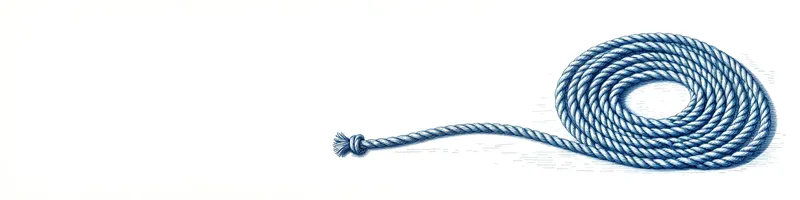
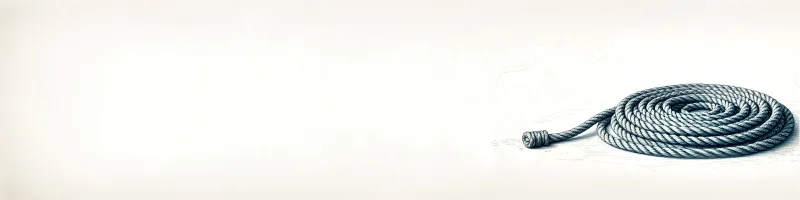
feat(portal): entregas rehechas del generador (26a, 26b, sello con GV, banda 29 oscura)
- Marcadores 26a (visto) y 26b (tres puntos) sobre el aro de 26c: se juntan
  sus dos capas en un trazado y pasan por limpiar-iconos.cjs.
- Sello 05b con el monograma GV, desde su SVG de una tinta, a 144 px.
- Banda 29 clara nueva (cabo más a la derecha) y su versión oscura, con el
  fondo subido al de la tarjeta (#111f29) para que no se vea el recuadro.
  El reparto de la banda ya no depende del tema; el CSS muestra la del tema.
  En el móvil llega al borde derecho (max-width: none) y se funde por abajo.
Queda la rosa, que el generador rehará geométrica. Check en verde.

Siguiente: llevar a main cuando la persona lo diga (reviewed.sh y subir)

Changed region(s): [[0.4062, 0.15, 1.0, 0.87], [0.0, 0.69, 0.0938, 1.0], [0.0, 0.0, 0.0312, 0.3]]

diff --git a/src/estilos/global.css b/src/estilos/global.css
@@ -2666,13 +2666,13 @@ button {
   filter: invert(1) hue-rotate(180deg);
 }
 
-/* Banda de la marca (recurso 29), solo en el tema claro: mide 4:1 y deja el cabo en la mitad derecha, así que el
-   texto va en la izquierda. En el oscuro no se muestra (invertida se veía mal) hasta que llegue su versión. */
+/* Banda de la marca (recurso 29), con su versión para cada tema: mide 4:1 y deja el cabo en la mitad derecha, así
+   que el texto va en la izquierda. */
 .participar-banda {
   display: none;
 }
 
-:root[data-tema='claro'] .participar-abierta {
+.participar-abierta {
   position: relative;
   grid-template-columns: auto minmax(0, 1fr);
   align-content: center;
@@ -2682,17 +2682,18 @@ button {
   overflow: hidden;
 }
 
-:root[data-tema='claro'] .participar-abierta > :not(.participar-banda) {
+.participar-abierta > :not(.participar-banda) {
   position: relative;
 }
 
-:root[data-tema='claro'] .participar-abierta .boton {
+.participar-abierta .boton {
   grid-column: 2;
   justify-self: start;
 }
 
 /* Si el texto pide más alto que el 4:1, la banda crece y recorta papel vacío por la izquierda, nunca el cabo. */
-:root[data-tema='claro'] .participar-banda {
+:root[data-tema='claro'] .participar-banda-claro,
+:root:not([data-tema='claro']) .participar-banda-oscuro {
   display: block;
   position: absolute;
   inset: 0;
@@ -2703,21 +2704,24 @@ button {
 }
 
 /* Por debajo de 900 px el texto ya no cabe en el 4:1 y el cover recortaría el cabo: la banda pasa encima del texto,
-   de borde a borde, y recorta solo papel de la izquierda. */
+   de borde a borde, recorta solo papel de la izquierda y se funde con la tarjeta por abajo. */
 @media (max-width: 900px) {
-  :root[data-tema='claro'] .participar-abierta {
+  .participar-abierta {
     grid-template-columns: 1fr;
     aspect-ratio: auto;
     padding: 0 24px 24px;
   }
-  :root[data-tema='claro'] .participar-abierta .boton {
+  .participar-abierta .boton {
     grid-column: auto;
   }
-  :root[data-tema='claro'] .participar-banda {
+  :root[data-tema='claro'] .participar-banda-claro,
+  :root:not([data-tema='claro']) .participar-banda-oscuro {
     position: static;
     width: calc(100% + 48px);
+    max-width: none;
     height: 120px;
     margin: 0 -24px;
+    mask-image: linear-gradient(to bottom, #000 75%, transparent);
   }
 }
 

diff --git a/src/pages/Proyecto.tsx b/src/pages/Proyecto.tsx
@@ -657,20 +657,25 @@ function FichaProyecto({ p }: { p: TipoProyecto }) {
         )}
 
         <aside className={`participar participar-${p.colaboracion}`}>
-          {/* Banda de la marca (recurso 29), solo con la colaboración abierta y en el tema claro: el cabo a la derecha,
-              el texto a la izquierda. */}
-          {p.colaboracion === 'abierta' && (
-            <img
-              className="participar-banda"
-              src={ruta('marca/banda-participar.webp')}
-              srcSet={`${ruta('marca/banda-participar-mini.webp')} 800w, ${ruta('marca/banda-participar.webp')} 1600w`}
-              sizes="(max-width: 1200px) 100vw, 1200px"
-              alt=""
-              width={1600}
-              height={400}
-              loading="lazy"
-            />
-          )}
+          {/* Banda de la marca (recurso 29), solo con la colaboración abierta; el CSS muestra la del tema. */}
+          {p.colaboracion === 'abierta' &&
+            (['claro', 'oscuro'] as const).map((tema) => {
+              const base =
+                tema === 'claro' ? 'marca/banda-participar' : 'marca/banda-participar-oscura';
+              return (
+                <img
+                  key={tema}
+                  className={`participar-banda participar-banda-${tema}`}
+                  src={ruta(`${base}.webp`)}
+                  srcSet={`${ruta(`${base}-mini.webp`)} 800w, ${ruta(`${base}.webp`)} 1600w`}
+                  sizes="(max-width: 1200px) 100vw, 1200px"
+                  alt=""
+                  width={1600}
+                  height={400}
+                  loading="lazy"
+                />
+              );
+            })}
           <span className="participar-icono" aria-hidden="true">
             {p.colaboracion === 'abierta' ? <IconoMarca nombre="ramas" /> : <Lock />}
           </span>

diff --git a/docs/marca.md b/docs/marca.md
@@ -179,10 +179,10 @@ La vista previa (`og`) de un proyecto es siempre `tools/og/fuentes/<slug>/og-fue
 | 27 | 2026-11-12 | `public/marca/estado-vacio.webp` (480×360, se muestra a 240) | Aviso vacío del muro y de novedades (`AvisoVacio.tsx`), en lugar de las isobatas tenues de `.vacio-carta` |
 | 28 | 2026-11-12 | `public/marca/aviso-error.webp` (480×360, se muestra a 240) | `AvisoError.tsx` (fallo de carga de la ficha o de una página), en lugar del monograma |
 | 25 | 2026-11-13 | `src/assets/iconos/resumen.svg`, `galeria.svg`, `a-fondo.svg`, `como-esta-hecho.svg` y `avance.svg` (pasados por `limpiar-iconos.cjs`) | Ficha de proyecto: título de cada grupo (en el color del acento) y su enlace del índice (`ICONO_GRUPO` de `Proyecto.tsx`) |
-| 26 | 2026-11-13 | `src/assets/iconos/hito-hecho.svg`, `hito-curso.svg` y `hito-pendiente.svg` (pasados por `limpiar-iconos.cjs`; los PNG de 64 px, con papel crema, no se usan) | Hitos de «Avance» (`ICONO_HITO`), en lugar de `Check`, `LoaderCircle` y `CircleDashed` de lucide dentro de un cuadro: el aro, del color del estado. **Provisionales 26a y 26b:** se pidieron al generador el visto con el grosor del aro y los tres puntos macizos (2026-11-13) |
-| 29 | 2026-11-13 | `public/marca/banda-participar.webp` (1600×400) y `-mini.webp` (800), con el papel crema blanqueado al convertir (`ffmpeg colorlevels`) para que case con `--superficie` | Fondo del aviso «¿Quieres participar?» de la ficha (`.participar-banda`), **solo en el tema claro**: en escritorio, a 4:1 con el texto en la mitad izquierda; en el móvil, encima del texto (120 px, recorta papel de la izquierda). En el oscuro se probó invertida y se veía mal (la persona, 2026-11-13: «en fondo blanco sí queda bien»): no se muestra hasta que llegue su versión oscura |
+| 26 | 2026-11-13 | `src/assets/iconos/hito-hecho.svg`, `hito-curso.svg` y `hito-pendiente.svg` (pasados por `limpiar-iconos.cjs`; los PNG de 64 px, con papel crema, no se usan) | Hitos de «Avance» (`ICONO_HITO`), en lugar de `Check`, `LoaderCircle` y `CircleDashed` de lucide dentro de un cuadro: el aro, del color del estado. 26a y 26b rehechas (2026-11-13): el aro de 26c con un visto del mismo grosor y con tres puntos macizos; el generador las entrega en dos capas (aro y `<svg>` anidado) que se juntan en un trazado antes de `limpiar-iconos.cjs` |
+| 29 | 2026-11-13 | `public/marca/banda-participar.webp` (1600×400) y `-mini.webp` (800), con el papel crema blanqueado al convertir (`ffmpeg colorlevels`) para que case con `--superficie` | Fondo del aviso «¿Quieres participar?» de la ficha (`.participar-banda`), **solo en el tema claro**: en escritorio, a 4:1 con el texto en la mitad izquierda; en el móvil, encima del texto (120 px, recorta papel de la izquierda). En el oscuro, su versión `banda-participar-oscura.webp` (y `-mini`), con el fondo noche subido a `--superficie` (#111f29) con `ffmpeg colorlevels=romin=0.0165:gomin=0.0427:bomin=0.0614` para que no se vea el recuadro (la persona, 2026-11-13). Solo con la colaboración abierta; hasta 900 px, encima del texto y fundida por abajo |
 | 30 | 2026-11-13 | `public/marca/cabecera-novedades.webp` (1600×400) y `-mini.webp` (800) | Arriba de `/novedades`, como la del equipo (clase común `.banda-cabecera`) |
-| 4, 5 | 2026-11-13 | `public/marca/rosa-vientos.webp` y `sello.webp` (512×512 con transparencia, del PNG del generador: el SVG, trazado en escalones, pesa más; no son los `.svg` que proponía la tabla de arriba) | Rosa: marca de agua al 12 % en la esquina inferior derecha del pie (`.pie-rosa`). Sello: a 72 px junto a «Galicia + Develop» de «Cómo trabajamos» del inicio (`.sobre-sello`). En el tema oscuro, en negativo por CSS. Sitios elegidos por la persona (2026-11-13: «me vale»). **Provisionales:** se pidieron la rosa en línea simple y el sello con el monograma |
+| 4, 5 | 2026-11-13 | `public/marca/rosa-vientos.webp` y `sello.webp` (rosa a 280 px y sello a 144 px, con transparencia; no son los `.svg` que proponía la tabla de arriba) | Rosa: marca de agua al 12 % en la esquina inferior derecha del pie (`.pie-rosa`). Sello (05b con el monograma GV, 2026-11-13, de su SVG de una tinta a 144 px con transparencia): a 72 px junto a «Galicia + Develop» de «Cómo trabajamos» del inicio (`.sobre-sello`). En el tema oscuro, en negativo por CSS. Sitios elegidos por la persona (2026-11-13: «me vale»). **Provisional la rosa:** el generador la rechazó y la dibujará geométrica |
 
 Por CSS, sin imagen (cancelados en el generador, 2026-11-11): 11, 16, 20 y 21 (el pie, cerúleo liso); la 22 no sale de gimg y el fondo sigue en color plano. La 14 se rehízo y llegó el 2026-11-12.
 

diff --git a/docs/handoff.md b/docs/handoff.md
@@ -8,8 +8,8 @@ Se actualiza en cada commit. Reglas en [`CLAUDE.md`](../CLAUDE.md).
 |---|---|
 | **Actualizado** | 2026-11-13 (series 25 y 26, banda 29 (solo claro) y cabecera 30 en `ccr-47f8fddd-o5ek6p`; **no a `main`**) |
 | **Rama de trabajo** | `claude/galivelop-dev-portal-1h89ci` (la que publica la tarea semanal); esta sesión, `ccr-47f8fddd-o5ek6p` (al día con `main`, 2026-11-13) |
-| **Tarea en curso** | **Lote del generador del 2026-11-13**. Hecho: iconos 25 en títulos e índice de la ficha, marcadores 26 en los hitos, banda 29 en «¿Quieres participar?» solo en el tema claro y cabecera 30 en `/novedades`. **29** no se muestra en el oscuro (invertida se veía mal; se pidió su versión). **Rosa y sello, sitios elegidos** (la persona: «me vale»): sello (05b) a 72 px junto a «Galicia + Develop» de «Cómo trabajamos» (`.sobre-sello`) y rosa (04b) como marca de agua al 12 % en la esquina del pie (`.pie-rosa`), invertidos en el oscuro. `/code-review` pasado y arreglado. Pedidos: 26a, 26b, rosa, sello, 29 oscura. **No llevar a `main`** hasta que la persona lo diga (2026-11-13). Presupuesto de compactaciones: 1 |
-| **Siguiente paso** | Cuando la persona diga de llevarlo a `main`: `reviewed.sh` y subir. Cuando lleguen 26a y 26b corregidas, repasarlas con `limpiar-iconos.cjs` (mismos nombres). Siguen en cola 10b y las versiones oscuras de 10, 18, 19, 27, 28 y 29 |
+| **Tarea en curso** | **Lote del generador del 2026-11-13**. Hecho: iconos 25 en títulos e índice de la ficha, marcadores 26 en los hitos, banda 29 en «¿Quieres participar?» (clara y oscura) y cabecera 30 en `/novedades`. Entregas rehechas del generador puestas (26a, 26b, sello con GV, 29 oscura con el fondo subido al de la tarjeta). **Rosa y sello, sitios elegidos** (la persona: «me vale»): sello (05b) a 72 px junto a «Galicia + Develop» de «Cómo trabajamos» (`.sobre-sello`) y rosa (04b) como marca de agua al 12 % en la esquina del pie (`.pie-rosa`), invertidos en el oscuro. `/code-review` pasado y arreglado. Pedido: la rosa (geométrica). **No llevar a `main`** hasta que la persona lo diga (2026-11-13). Presupuesto de compactaciones: 1 |
+| **Siguiente paso** | Cuando la persona diga de llevarlo a `main`: `reviewed.sh` y subir. Cuando llegue la rosa, `public/marca/rosa-vientos.webp` a 280 px. Siguen en cola 10b y las versiones oscuras de 10, 18, 19, 27 y 28 |
 | **En `main`** | **Portadas 06 rehechas, estado vacío (27) y aviso de error (28)** (704b662, 2026-11-12, la persona: «vamos a llevarlo a main»; fase 1 y 3, sin retro por ser cambio pequeño; CI en verde en dc8bbdd). Lo anterior, en «Hecho» y en `git log origin/main`. https://zeldris.github.io/Portal-Galivelop/ |
 | **Tests** | `npm run check`: tsc 0 errores, `prettier --check` de `src/`, vitest 202/202 (23 archivos) y `tools/qa/tests/test-ganchos.sh`. `npm run build` correcto (42 páginas estáticas, sitemap, robots y llms) |
 
@@ -18,7 +18,7 @@ Se actualiza en cada commit. Reglas en [`CLAUDE.md`](../CLAUDE.md).
 La web se publica los domingos a las 20:45 (hora de Madrid) con la tarea programada «Proyectos semanal» (ver `AGENTS.md`).
 Aquí se apunta lo que está en la rama de trabajo y aún no en `main`.
 
-- En `ccr-47f8fddd-o5ek6p`, **sin llevar a `main` por petición de la persona** (2026-11-13): iconos 25, marcadores 26, banda 29 (solo claro) y cabecera 30. Revisado y arreglado; falta la marca.
+- En `ccr-47f8fddd-o5ek6p`, **sin llevar a `main` por petición de la persona** (2026-11-13): iconos 25, marcadores 26, banda 29 (clara y oscura), cabecera 30, rosa y sello. Revisado y arreglado; falta la marca.
 
 ## Hecho
 
